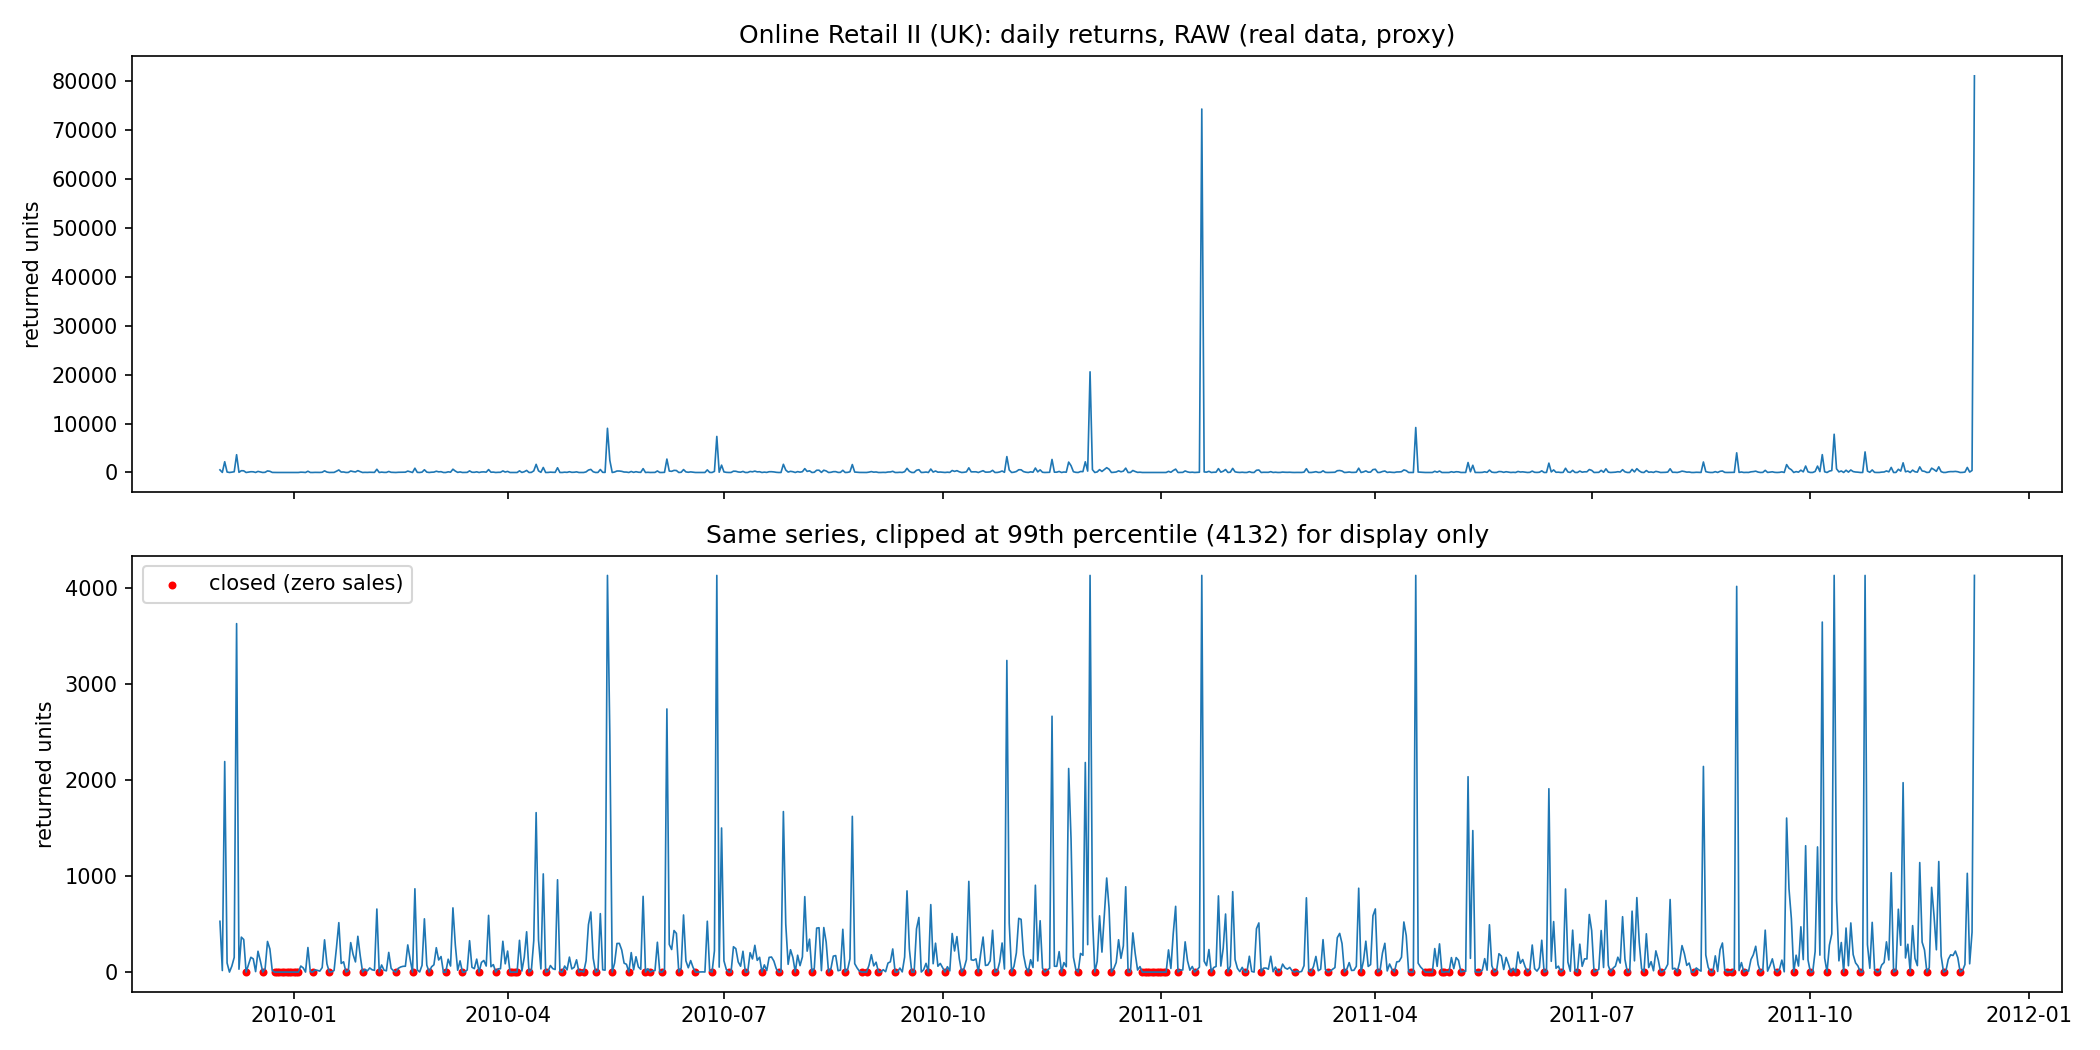
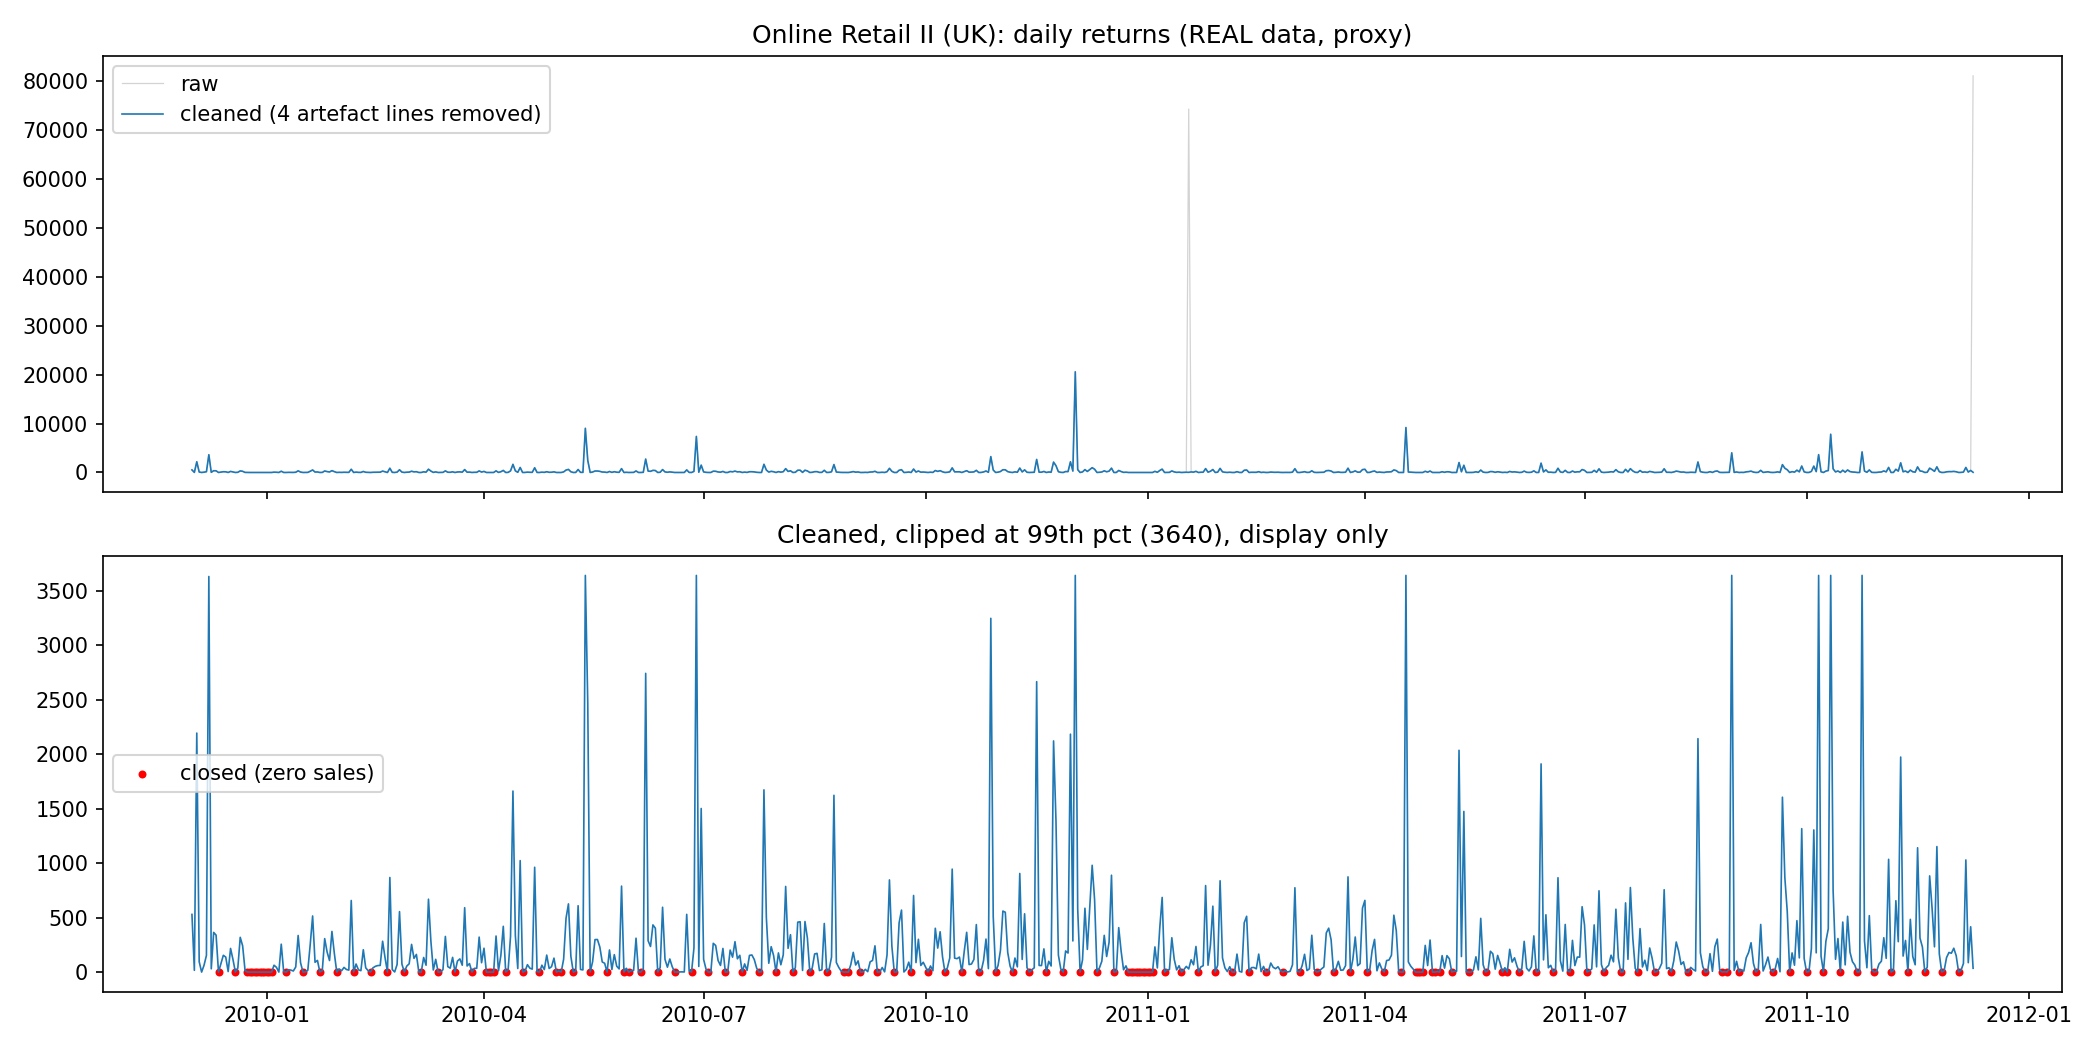
Track C: C1 remove 2 order+cancel artefacts, add raw/clean helpers

diff --git a/src/retail_returns.py b/src/retail_returns.py
@@ -1,17 +1,30 @@
 """Track C - daily sales + returns series from Online Retail II (invoices starting with 'C' = cancellations/returns)."""
 import pandas as pd
 
+# Order + cancellation of the SAME huge quantity within minutes (data-entry artefacts, found during C1 checks).
+ARTEFACT_INVOICES = ["541431", "C541433", "581483", "C581484"]
 
-def retail_daily(xlsx_path, country="United Kingdom"):
-    df = pd.concat(
-        pd.read_excel(xlsx_path, sheet_name=None).values()
-    )  # file has 2 sheets (2009-10, 2010-11)
-    df = df.rename(columns={"InvoiceNo": "Invoice"})  # OpenML copy uses InvoiceNo
+
+def load_raw(xlsx_path):
+    df = pd.concat(pd.read_excel(xlsx_path, sheet_name=None).values())  # 2 sheets (2009-10, 2010-11)
+    return df.rename(columns={"InvoiceNo": "Invoice"})  # OpenML copy uses InvoiceNo
+
+
+def daily_from_raw(df, country="United Kingdom", drop_invoices=()):
+    df = df.copy()
+    df["Invoice"] = df["Invoice"].astype(str)
+    if len(drop_invoices):
+        bad = df["Invoice"].isin([str(x) for x in drop_invoices]) & (df["Quantity"].abs() > 10000)
+        df = df[~bad]
     df["date"] = pd.to_datetime(df["InvoiceDate"]).dt.normalize()
     df = df[df.Country == country]
-    is_ret = df["Invoice"].astype(str).str.startswith("C")
+    is_ret = df["Invoice"].str.startswith("C")
     sales = df[~is_ret & (df.Quantity > 0)].groupby("date").Quantity.sum()
     rets = -df[is_ret].groupby("date").Quantity.sum()
     out = pd.DataFrame({"sales": sales, "returns": rets}).asfreq("D").fillna(0)
     out["return_rate"] = out.returns / out.sales.clip(lower=1)
-    return out  # NOTE: shop closed ~Christmas->New Year, so zeros there are 'closed', not 'no demand'
+    return out  # NOTE: zeros = shop closed (Saturdays, Christmas break), not 'no demand'
+
+
+def retail_daily(xlsx_path, country="United Kingdom", drop_invoices=()):
+    return daily_from_raw(load_raw(xlsx_path), country, drop_invoices)
